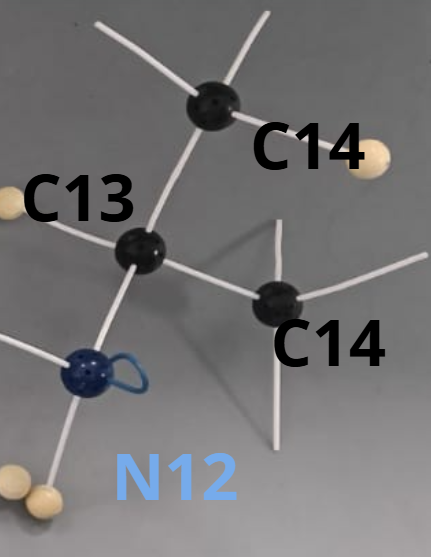
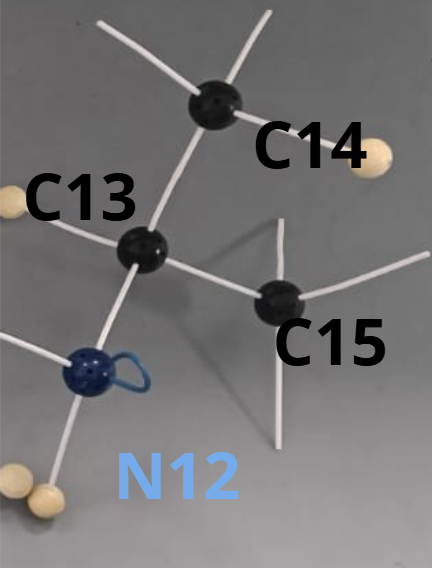
aaa

diff --git a/caracterizacion.html b/caracterizacion.html
@@ -1271,41 +1271,44 @@
                     }
                 }, 100);
         }
-    // 1. Anillo aromático (fenilo)
     // 1. Éter aromático (Ar–O–R)
+    // O4 (serial 0) conecta el anillo bencénico (C1' serial 10) con la cadena lateral (C16 serial 11)
     let v1 = $3Dmol.createViewer("viewer-funcional-1", {backgroundColor: "white"});
     $3Dmol.download("assets/models/Conformer3D_COMPOUND_CID_4171.sdf", v1, {}, function() {
-        // Oxígeno puente (1) y carbonos adyacentes (11: anillo, 10: cadena)
+        // Oxígeno O4 (serial 0) y carbonos adyacentes: C1' (serial 10: anillo), C16 (serial 11: cadena)
         v1.setStyle({}, {stick: {radius:0.18, color: '#bbb'}, sphere: {scale:0.23, color: '#bbb'}});
-        v1.setStyle({serial: [1, 11, 10]}, {stick: {radius:0.25, color: '#64a19d'}, sphere: {scale:0.3, color: '#64a19d'}});
-        v1.zoomTo({serial: [1, 11, 10]});
+        v1.setStyle({serial: [0, 10, 11]}, {stick: {radius:0.25, color: '#64a19d'}, sphere: {scale:0.3, color: '#64a19d'}});
+        v1.zoomTo({serial: [0, 10, 11]});
         v1.render();
     });
     // 2. Alcohol secundario
+    // O11 (serial 1) unido al carbono secundario C2 (serial 4)
     let v2 = $3Dmol.createViewer("viewer-funcional-2", {backgroundColor: "white"});
     $3Dmol.download("assets/models/Conformer3D_COMPOUND_CID_4171.sdf", v2, {}, function() {
-        // Oxígeno (3), carbono 12 (alcohol)
+        // Oxígeno O11 (serial 1) y carbono secundario C2 (serial 4)
         v2.setStyle({}, {stick: {radius:0.18, color: '#bbb'}, sphere: {scale:0.23, color: '#bbb'}});
-        v2.setStyle({serial: [3, 12]}, {stick: {radius:0.25, color: '#e4c662'}, sphere: {scale:0.3, color: '#e4c662'}});
-        v2.zoomTo({serial: [3, 12]});
+        v2.setStyle({serial: [1, 4]}, {stick: {radius:0.25, color: '#e4c662'}, sphere: {scale:0.3, color: '#e4c662'}});
+        v2.zoomTo({serial: [1, 4]});
         v2.render();
     });
     // 3. Amina secundaria
+    // N12 (serial 3) unido a C2 (serial 4), C3 (serial 5) y C13 (serial 6)
     let v3 = $3Dmol.createViewer("viewer-funcional-3", {backgroundColor: "white"});
     $3Dmol.download("assets/models/Conformer3D_COMPOUND_CID_4171.sdf", v3, {}, function() {
-        // Nitrógeno (4), carbonos 5 y 6 (isopropilo), hidrógeno del NH (24)
+        // Nitrógeno N12 (serial 3) y carbonos adyacentes: C2 (serial 4), C3 (serial 5), C13 (serial 6)
         v3.setStyle({}, {stick: {radius:0.18, color: '#bbb'}, sphere: {scale:0.23, color: '#bbb'}});
-        v3.setStyle({serial: [4, 5, 6, 24]}, {stick: {radius:0.25, color: '#1cabc4'}, sphere: {scale:0.3, color: '#1cabc4'}});
-        v3.zoomTo({serial: [4, 5, 6, 24]});
+        v3.setStyle({serial: [3, 4, 5, 6]}, {stick: {radius:0.25, color: '#1cabc4'}, sphere: {scale:0.3, color: '#1cabc4'}});
+        v3.zoomTo({serial: [3, 4, 5, 6]});
         v3.render();
     });
     // 4. Anillo aromático (bencénico)
+    // Los 6 carbonos del anillo: C1' (10), C2' (15), C3' (13), C4' (9), C5' (12), C6' (14)
     let v4 = $3Dmol.createViewer("viewer-funcional-4", {backgroundColor: "white"});
     $3Dmol.download("assets/models/Conformer3D_COMPOUND_CID_4171.sdf", v4, {}, function() {
-        // Átomos del anillo bencénico: 14, 15, 16, 17, 11, 13
+        // Átomos del anillo bencénico: C1' (10), C2' (15), C3' (13), C4' (9), C5' (12), C6' (14)
         v4.setStyle({}, {stick: {radius:0.18, color: '#bbb'}, sphere: {scale:0.23, color: '#bbb'}});
-        v4.setStyle({serial: [14, 15, 16, 17, 11, 13]}, {stick: {radius:0.25, color: '#a16468'}, sphere: {scale:0.3, color: '#a16468'}});
-        v4.zoomTo({serial: [14, 15, 16, 17, 11, 13]});
+        v4.setStyle({serial: [10, 15, 13, 9, 12, 14]}, {stick: {radius:0.25, color: '#a16468'}, sphere: {scale:0.3, color: '#a16468'}});
+        v4.zoomTo({serial: [10, 15, 13, 9, 12, 14]});
         v4.render();
     });
     </script>
